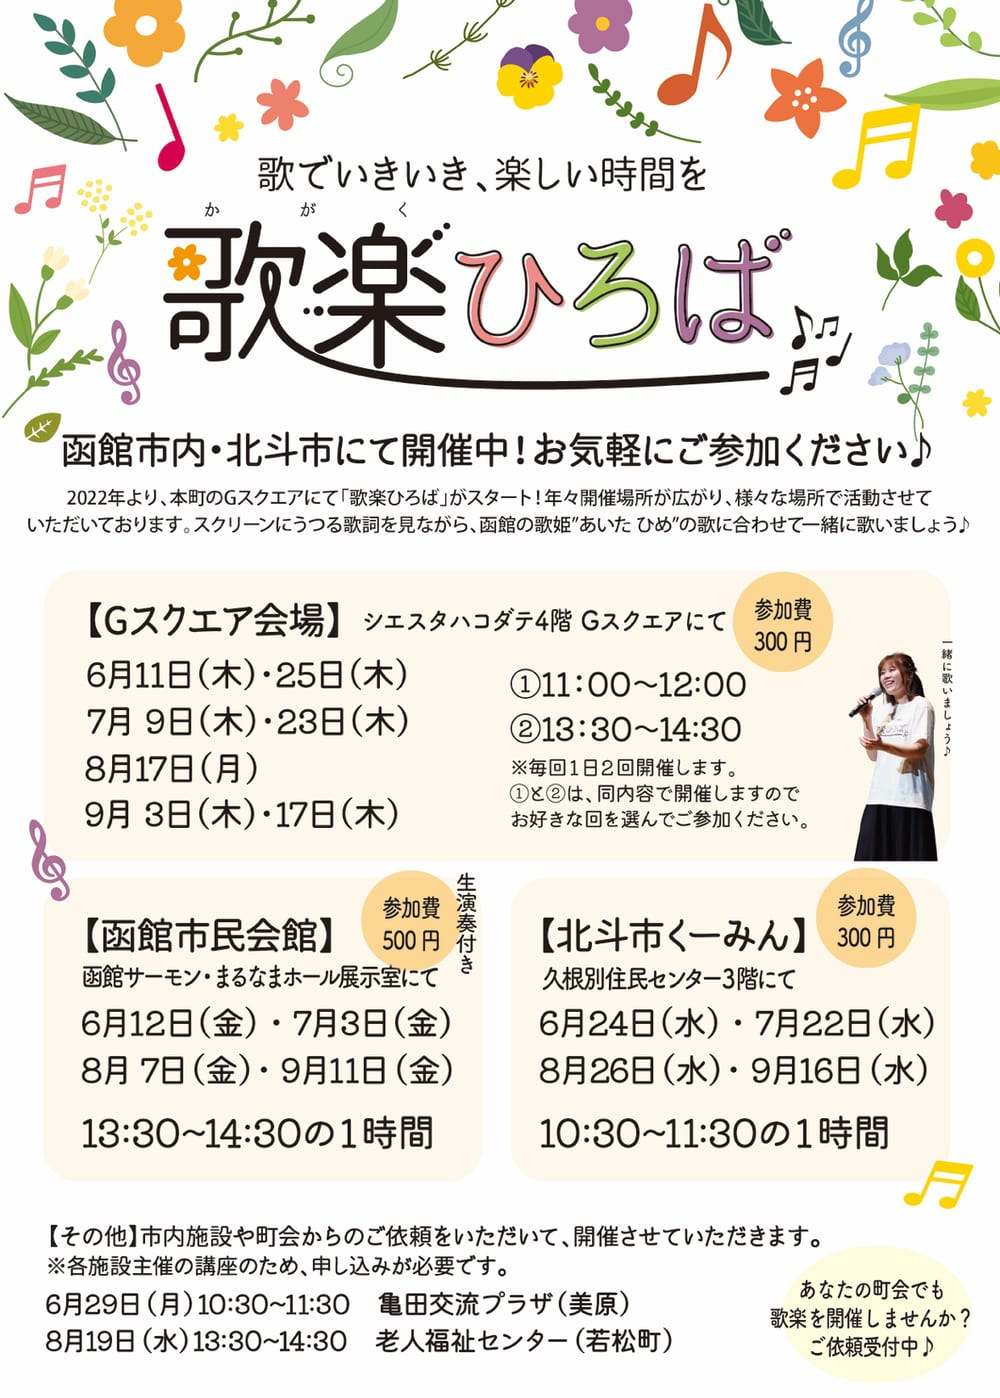
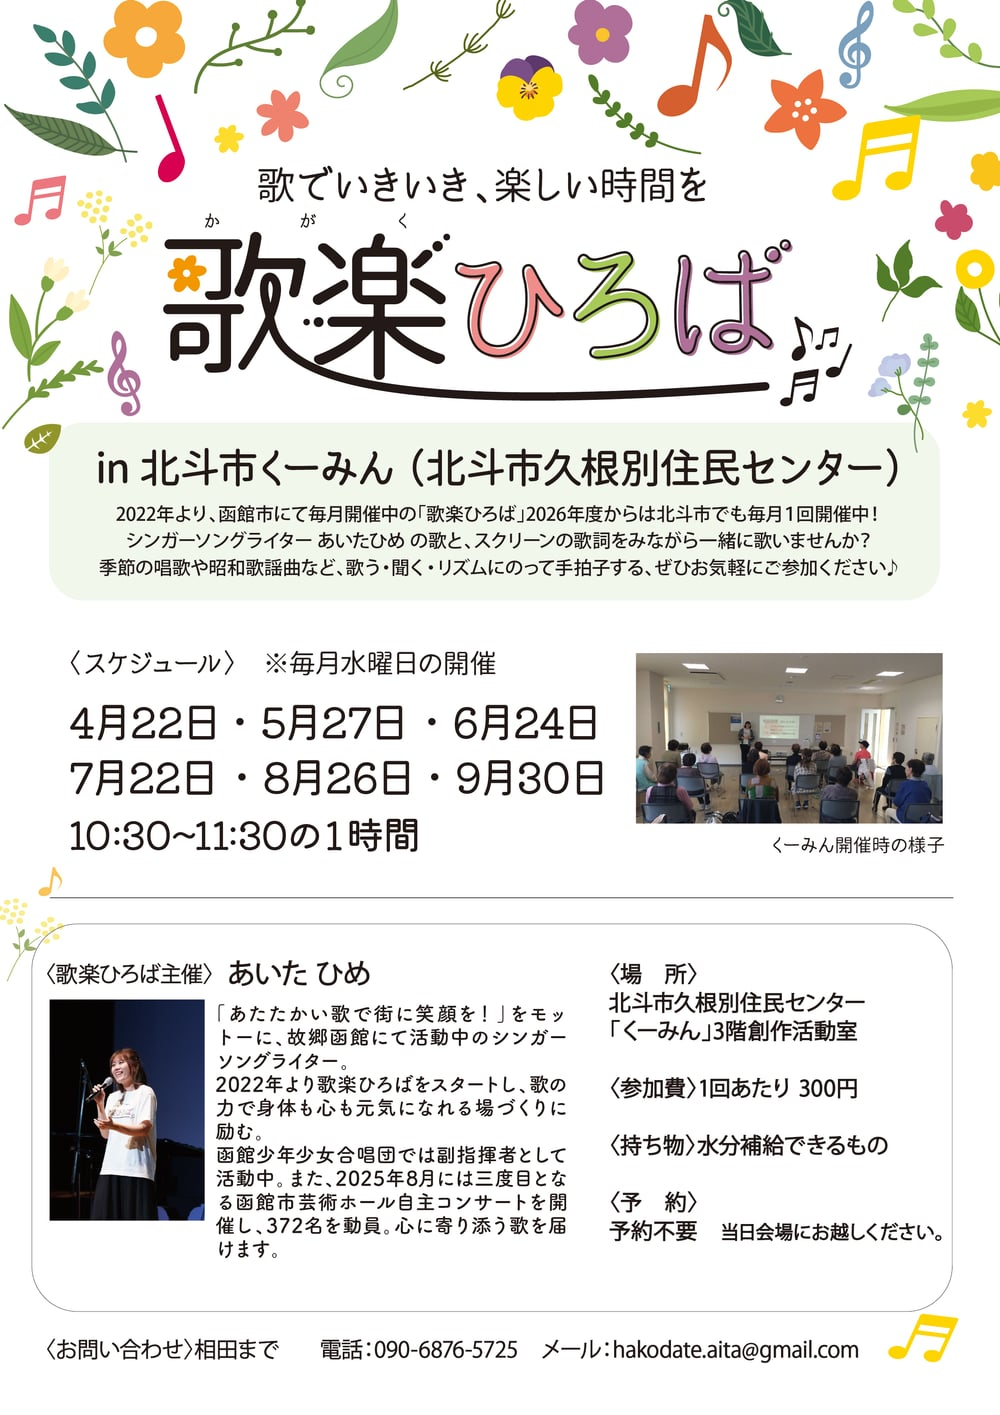
北斗市くーみんの写真差し替えと表示調整
- 今後の予定ページ「北斗市くーみん」ボタンの表示写真を、専用チラシ「くーみん」に差し替え
- 今後の予定の強調文から「歌楽ひろば」の文字を削除
- 活動実績カードの正方形写真の余白(ぼかし背景)の透明度を下げ、より見えるように調整

diff --git a/src/data/sections.ts b/src/data/sections.ts
@@ -240,8 +240,8 @@ export const sections: SiteSection[] = [
   {
     id: 'schedule',
     title: '今後の活動予定',
-    lead: '歌楽ひろば　各会場にて定期開催！お気軽にお越しください',
-    leadHighlight: '歌楽ひろば　各会場にて定期開催！お気軽にお越しください',
+    lead: '各会場にて定期開催！お気軽にお越しください',
+    leadHighlight: '各会場にて定期開催！お気軽にお越しください',
     body: [
       '定期開催以外にもご依頼に応じて、お祭り、函館市内の公益施設、介護予防団体、町内会、シニア大学講師、北斗市町内会連合会などなど、様々な場所でも開催しております。ご依頼もお受けしておりますので、お気軽にお問い合わせください。',
     ],

diff --git a/src/index.css b/src/index.css
@@ -1014,7 +1014,7 @@ a {
   height: 100%;
   object-fit: cover;
   filter: blur(6px);
-  opacity: 0.35;
+  opacity: 0.55;
   transform: scale(1.1);
 }
 
